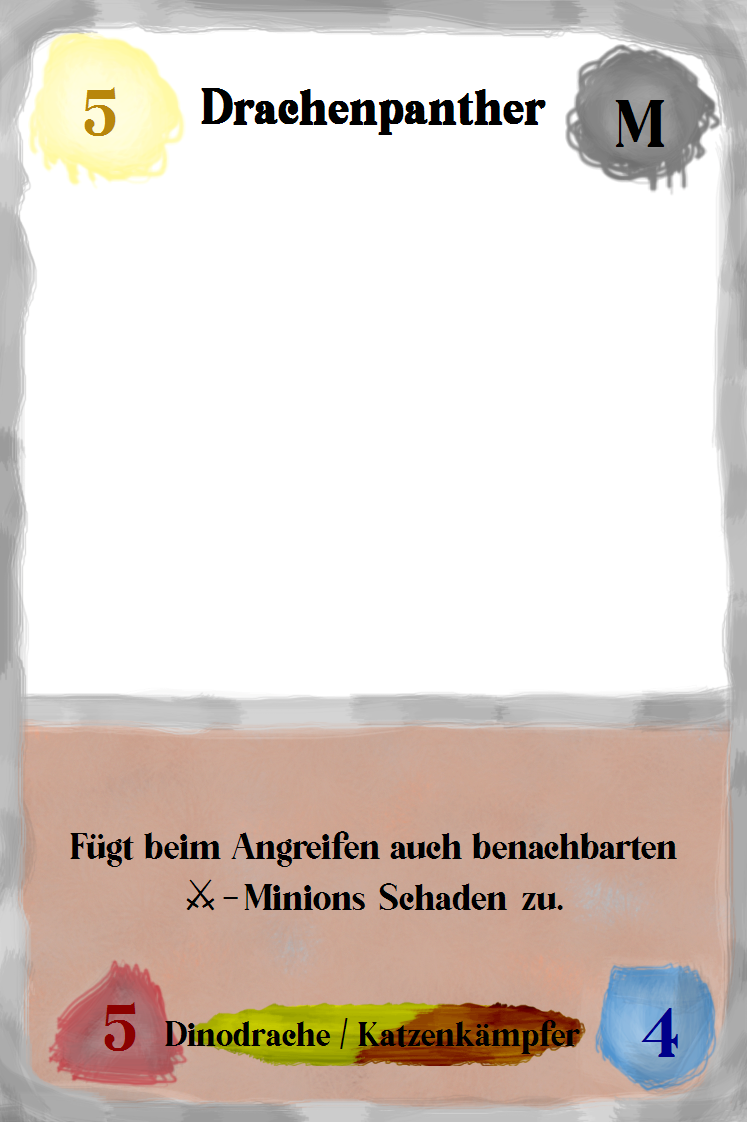
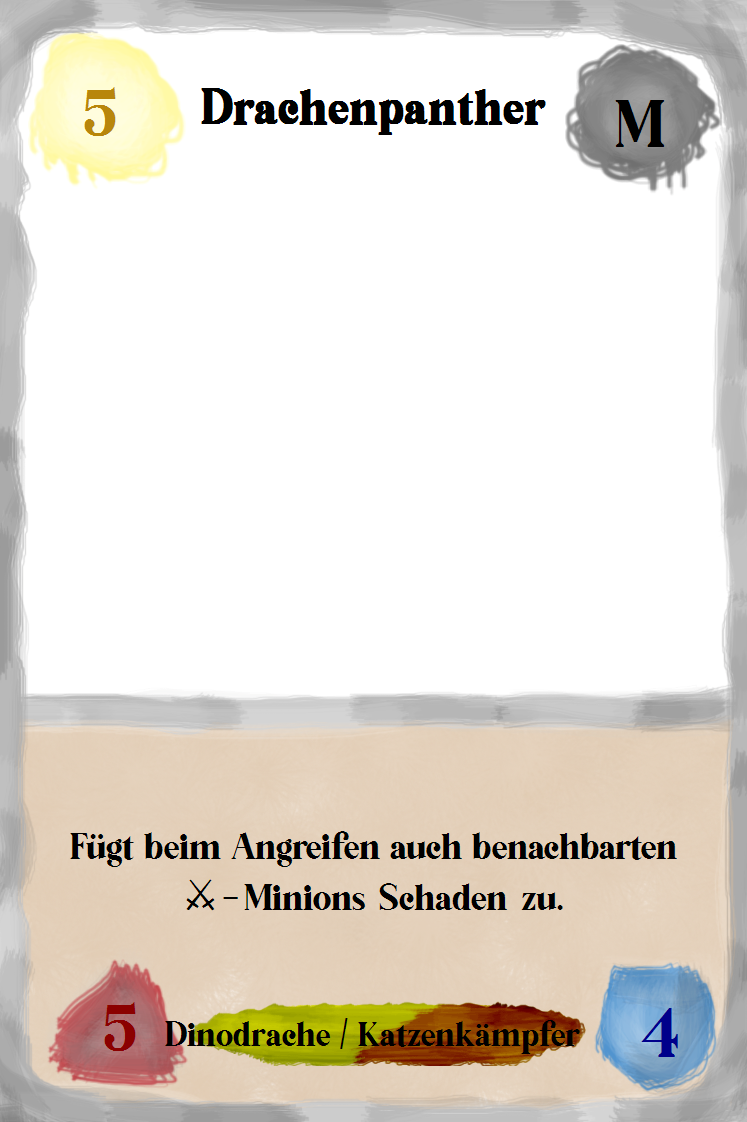
fixed dual class cards

Changed region(s): [[0.0308, 0.6239, 0.9853, 0.9982], [0.9237, 0.9358, 0.9545, 0.967]]

diff --git a/CardGenerator/Program.cs b/CardGenerator/Program.cs
@@ -15,7 +15,7 @@ using System.Threading.Tasks;
 
 class Program
 {
-    public const string SourcePath = "E:/Workspace/VisualStudio/CardGenerator/CardGenerator/Images/"; // Images are saved to this folder
+    public const string SourcePath = "E:/Workspace/VisualStudio/EusesSpeli/CardGenerator/Images/";
 
     static void Main(string[] args)
     {
